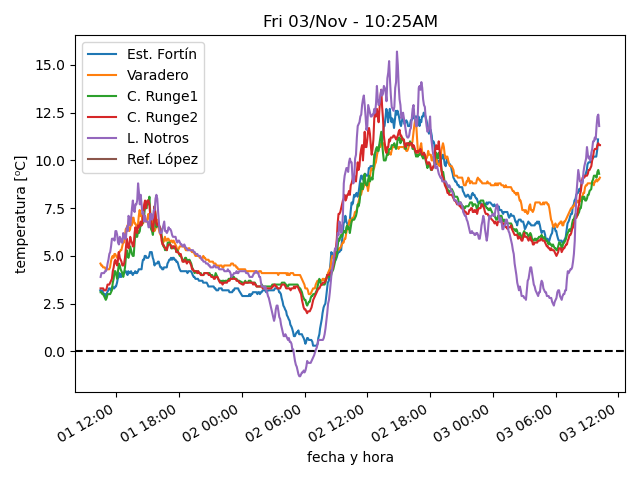
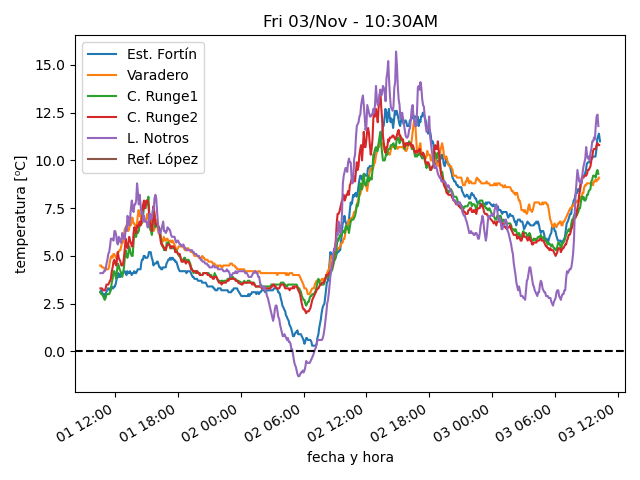
actualiza datos

diff --git a/estaciones/estacion1.html b/estaciones/estacion1.html
@@ -18,22 +18,22 @@
     </tr>
     <tr>
      <td class="stats_data">
-      10:03AM
+      10:19AM
      </td>
     </tr>
     <tr>
      <td class="stats_data">
-      11.1⁰C
+      11.0⁰C
      </td>
     </tr>
     <tr>
      <td class="stats_data">
-      0.2⁰C
+      -0.6⁰C
      </td>
     </tr>
     <tr>
      <td class="stats_data">
-      47.0%
+      44.7%
      </td>
     </tr>
     <tr>
@@ -43,7 +43,7 @@
     </tr>
     <tr>
      <td class="stats_data">
-      9.5/17.7 km/hr W
+      16.7/24.1 km/hr SW
      </td>
     </tr>
     <tr>
@@ -53,12 +53,12 @@
     </tr>
     <tr>
      <td class="stats_data">
-      3.0
+      3.4
      </td>
     </tr>
     <tr>
      <td class="stats_data">
-      647.0 W/m²
+      691.0 W/m²
      </td>
     </tr>
    </tbody>
